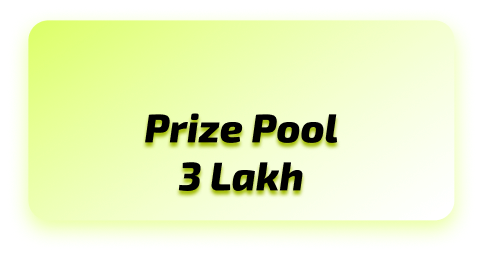
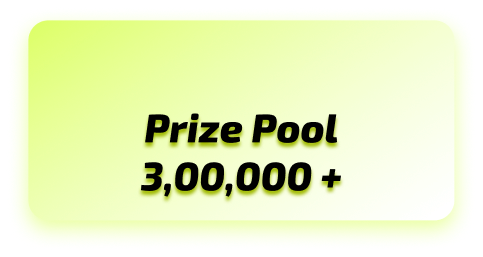
hero page minor positioning fixes

Changed region(s): [[0.2795, 0.6226, 0.7143, 0.7782]]

diff --git a/src/Home.jsx b/src/Home.jsx
@@ -186,7 +186,7 @@ function TimelineSection() {
       <img src={sprayImg} alt="" style={{
         position: "absolute",
         bottom: "10px",        /* change to move up or down */
-        right: "100px",         /* change to move left or right */
+        right: "-35px",         /* change to move left or right */
         width: "130px",        /* change to resize */
         pointerEvents: "none",
         userSelect: "none",
@@ -390,7 +390,7 @@ function RegistrationSection() {
         }
       `}</style>
 
-      <div className="reg-page mt-20">
+      <div className="reg-page">
         {/* Background */}
         <img
           src={decorStickers}
@@ -578,7 +578,7 @@ export default function Home() {
 
 
           <img className="absolute h-[26.21vw] -right-[9vw] top-[-8vw] lg:right-[-3vw] lg:top-[-4vw] lg:h-[13.55vw] popup" src={wheel} />
-          <img className="absolute h-[19.42vw] left-[30.1vw] lg:left-[20.72vw] lg:h-[8.56vw] popup" src={specialdeal} />
+          <img className="absolute h-[19.42vw] left-[25.1vw] lg:left-[20.72vw] lg:h-[8.56vw] popup" src={specialdeal} />
           <img className="absolute h-[3.61vw] lg:left-[61.11vw] lg:h-[7.78vw] lg:top-[-1.11vw] hidden lg:block popup" src={lightning} />
 
           {/* FIXED: Brought the missing white spark sticker back to its top-left quadrant position */}
@@ -590,20 +590,20 @@ export default function Home() {
 
           <img className="absolute h-[29.13vw] top-[34.95vw] rotate-6 -right-[8.74vw] lg:top-[9.17vw] lg:right-[-6.67vw] lg:h-[16.67vw] popup" src={triangle} />
 
-          <img className="absolute h-[38.83vw] top-[55.34vw] -left-[3.88vw] lg:top-[16.67vw] lg:h-[15.83vw] lg:left-[-2.22vw] popup" src={coin} />
+          <img className="absolute h-[38.83vw] top-[75.34vw] -left-[3.88vw] lg:top-[16.67vw] lg:h-[15.83vw] lg:left-[-2.22vw] popup" src={coin} />
 
           <img className="absolute -rotate-10 top-[199.03vw] -right-[7.77vw] h-[28.16vw] lg:h-[16.67vw] lg:right-[-5.56vw] lg:top-[34.72vw] popup" src={smile} />
 
           {/* FIXED: Repositioned Crown to match Figma (Higher up, further right, proper scaling) */}
           <img className="absolute top-[19.42vw] left-[77.67vw] h-[21.36vw] lg:top-[13vw] lg:left-[78%] lg:h-[11vw] popup" src={crown} />
 
-          <img className="absolute -rotate-11 top-[166.02vw] right-[1.94vw] w-[10.68vw] lg:top-[22.78vw] lg:right-[5.28vw] lg:w-[5.56vw] popup" src={pose} />
+          <img className="absolute -rotate-11 top-[154vw] right-[1.94vw] w-[10.68vw] lg:top-[22.78vw] lg:right-[5.28vw] lg:w-[5.56vw] popup" src={pose} />
 
           <img className="absolute h-[34.95vw] top-[-5.83vw] -left-[26.21vw] lg:left-[-8.33vw] lg:top-[-1.94vw] lg:h-[18.06vw]" src={keepout} />
 
           <img className="absolute top-[185.15vw] -left-[5.83vw] h-[39.81vw] lg:h-[20vw] lg:-left-[0.56vw] lg:top-[34.17vw] popup" src={spray} />
 
-          <img className="absolute right-[0.97vw] -top-[11.65vw] h-[33.01vw] lg:right-[5.28vw] lg:-top-[8.61vw] lg:h-[20.83vw] popup" src={punk} />
+          <img className="absolute right-[9.5vw] -top-[11.65vw] h-[33.01vw] lg:right-[5.28vw] lg:-top-[8.61vw] lg:h-[20.83vw] popup" src={punk} />
 
           {/* Mobile caution */}
           <img
@@ -627,14 +627,14 @@ export default function Home() {
 
           {/* ================= CENTER CONTENT ================= */}
 
-          <div className="absolute inset-0 flex justify-center pt-[75.42vw] lg:pt-[7.5vw]">
+          <div className="absolute inset-0 flex justify-center pt-[50.42vw] lg:pt-[7.5vw]">
 
             <div className="flex flex-col items-center gap-[3.5vw] lg:gap-[0.2vw]">
 
               {/* Logo */}
               <img
                 src={myLogo}
-                className="block lg:hidden w-[58.25vw] fade-in"
+                className="block lg:hidden w-[87.25vw] fade-in mb-[10vw]"
                 alt=""
               />
               <img
@@ -643,18 +643,11 @@ export default function Home() {
                 alt=""
               />
 
-              {/* Date */}
-              {/* <img
-                src={date}
-                className="w-[35.19vw] lg:w-[17.36vw]"
-                alt=""
-              /> */}
-
               {/* Timer */}
               <div className="relative">
                 <img
                   src={timerbg}
-                  className="w-[67.96vw] lg:w-[40vw]"
+                  className="w-[87.96vw] lg:w-[40vw]"
                   alt=""
                 />
                 <div
@@ -664,8 +657,8 @@ export default function Home() {
           text-black
           font-mono
           font-bold
-          pt-3
-          text-[6.31vw]
+          pt-1.5
+          text-[7.8vw]
           lg:text-[4vw]
         "
                 >
@@ -674,7 +667,7 @@ export default function Home() {
               </div>
 
               {/* Buttons */}
-              <div className="flex flex-col lg:flex-row gap-[3vw] lg:gap-[1.8vw]">
+              <div className="flex flex-col lg:flex-row gap-[0.5vw] lg:gap-[1.8vw] mt-[5vw] lg:mt-[0px]">
 
                 <a
                   href="https://unstop.com/o/PxlVshT?utm_medium=Share&utm_source=aditysin8668&utm_campaign=Online_coding_challenge"
@@ -684,7 +677,7 @@ export default function Home() {
                 >
                   <img
                     src={register}
-                    className="h-[11.65vw] lg:h-[5.56vw] popup"
+                    className="h-[20.65vw] lg:h-[5.56vw] popup"
                     alt=""
                   />
                 </a>
@@ -697,7 +690,7 @@ export default function Home() {
                 >
                   <img
                     src={join}
-                    className="h-[11.65vw] lg:h-[5.56vw] popup"
+                    className="h-[21.65vw] lg:h-[5.56vw] popup"
                     alt=""
                   />
                 </a>
@@ -1194,7 +1187,7 @@ export default function Home() {
                 <input type="radio" name="accordion" id="fifth" />
                 <label htmlFor="fifth">Do I need to join the official community and follow ACTS EDC on social media?</label>
                 <div className="content">
-                  <p>Yes. Joining the official BrainWave WhatsApp community is mandatory, as all important announcements, schedules, and event updates will be shared there. Participants must also follow the official ACTS EDC social media handles to remain eligible for participation certificates and prizes.</p>
+                  <p>Yes. Joining the official BrainWave WhatsApp community is mandatory, as all important announcements, schedules, and event updates will be shared there.</p>
                 </div>
               </li>
               <li className="rounded-2xl overflow-hidden ">

diff --git a/src/components/Tracks.jsx b/src/components/Tracks.jsx
@@ -40,7 +40,7 @@ export default function Tracks() {
   }, []);
 
   return (
-    <section id="tracks" ref={sectionRef} className="relative w-full min-h-screen overflow-hidden py-20 px-5 pb-[120px]">
+    <section id="tracks" ref={sectionRef} className="relative w-full min-h-screen overflow-hidden py-10 px-5">
       {/* Heading - matches timeline/registration heading sizing */}
       <div className="text-center mb-12 md:mb-16 relative z-10">
         <img